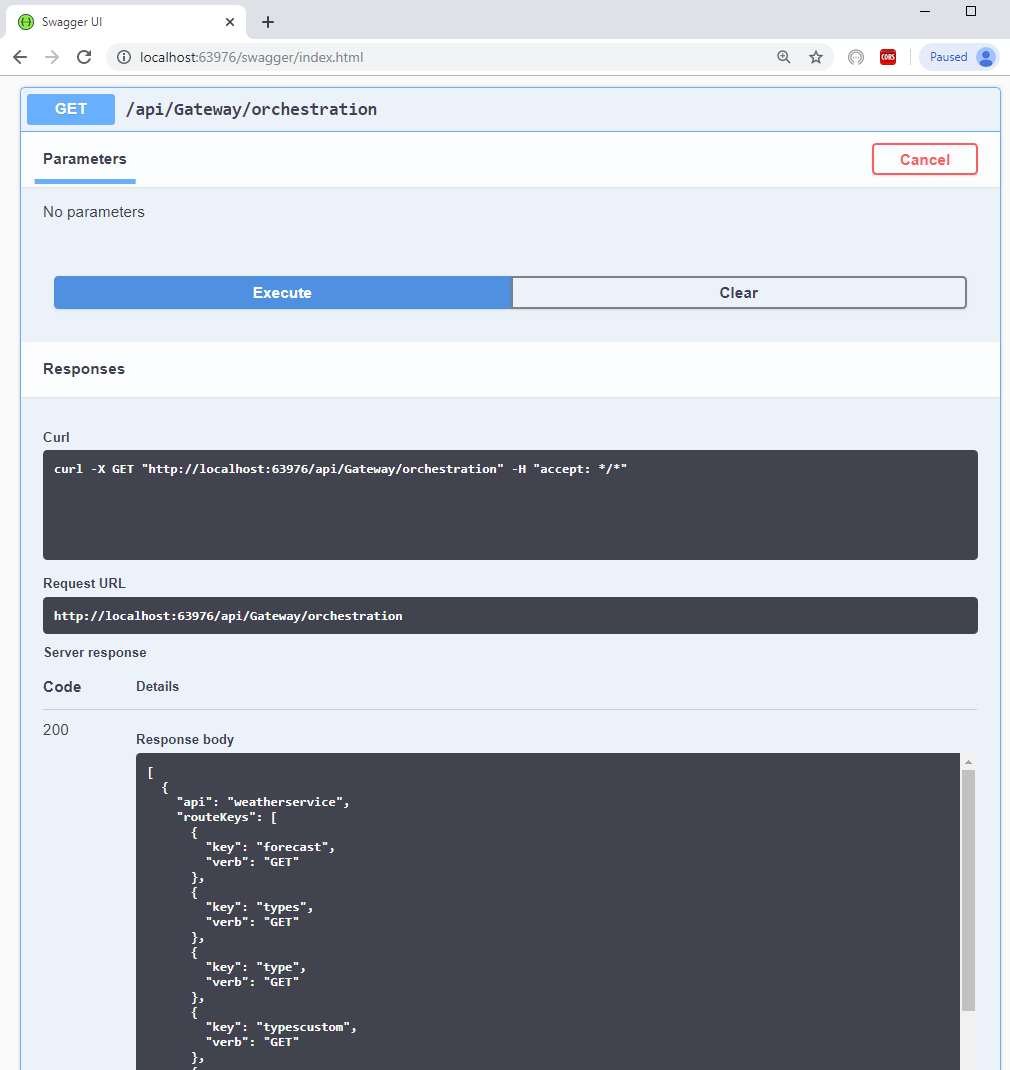
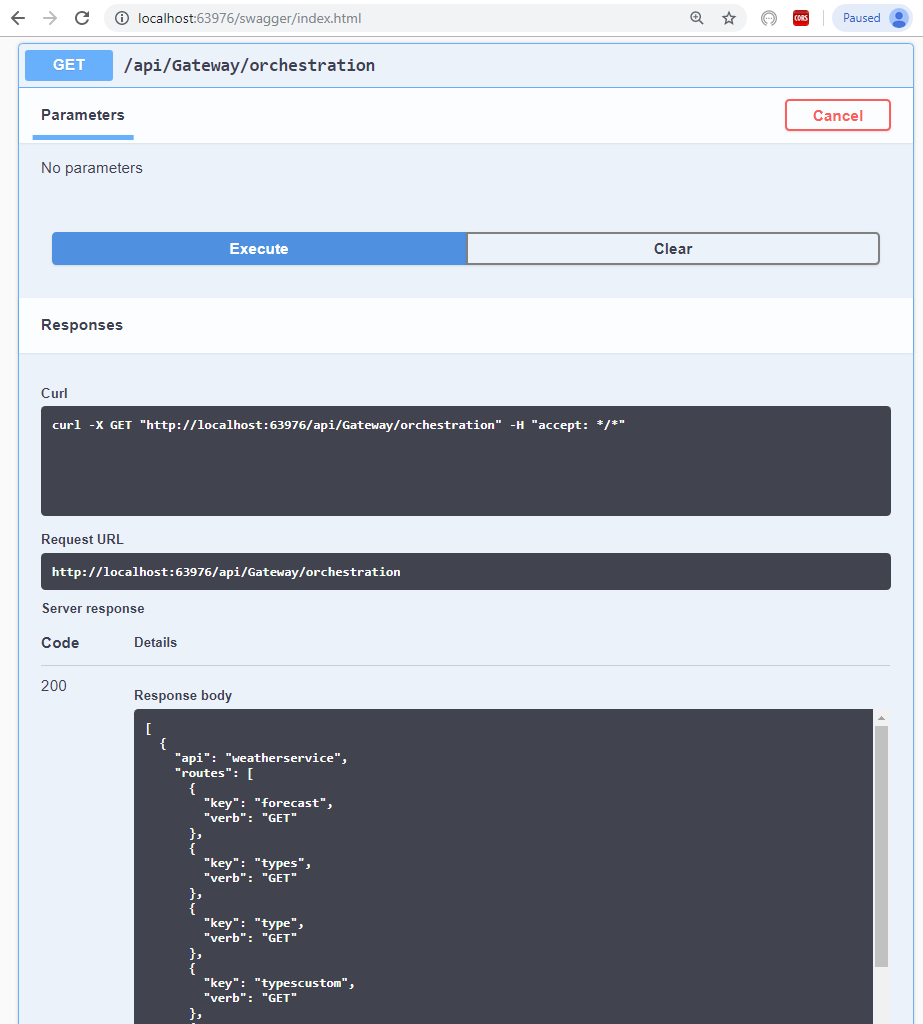
renamed property in orchestration endpoint collection.

Changed region(s): [[0.0, 0.0, 1.0, 1.0], [0.6977, 0.2188, 0.7584, 0.2812], [0.9404, 0.25, 0.9707, 0.2812]]

diff --git a/AspNetCore.ApiGateway/Application/ApiOrchestrator.cs b/AspNetCore.ApiGateway/Application/ApiOrchestrator.cs
@@ -31,7 +31,7 @@ namespace AspNetCore.ApiGateway
         public IEnumerable<Orchestration> Orchestration => apis?.Select(x => new Orchestration
         {
             Api = x.Key,
-            RouteKeys = x.Value.Mediator.RouteKeys
+            Routes = x.Value.Mediator.RouteKeys
         });
     }
 }

diff --git a/AspNetCore.ApiGateway.Tests/Orchestration.cs b/AspNetCore.ApiGateway.Tests/Orchestration.cs
@@ -6,7 +6,7 @@ namespace AspNetCore.ApiGateway.Tests
     {
         public string Api { get; set; }
 
-        public IEnumerable<Route> RouteKeys { get; set; }
+        public IEnumerable<Route> Routes { get; set; }
     }
 
     public class Route

diff --git a/AspNetCore.ApiGateway/Application/Orchestration.cs b/AspNetCore.ApiGateway/Application/Orchestration.cs
@@ -6,7 +6,7 @@ namespace AspNetCore.ApiGateway
     {
         public string Api { get; set; }
 
-        public IEnumerable<Route> RouteKeys { get; set; }
+        public IEnumerable<Route> Routes { get; set; }
     }
 
     public class Route
